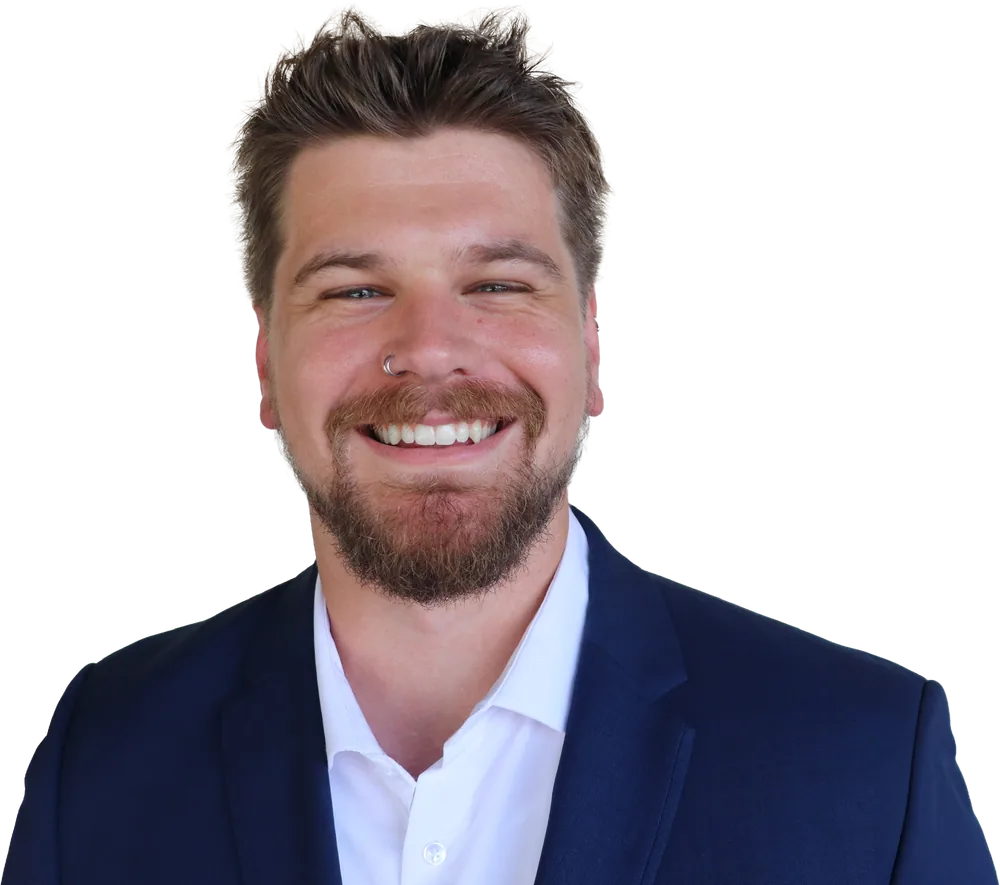
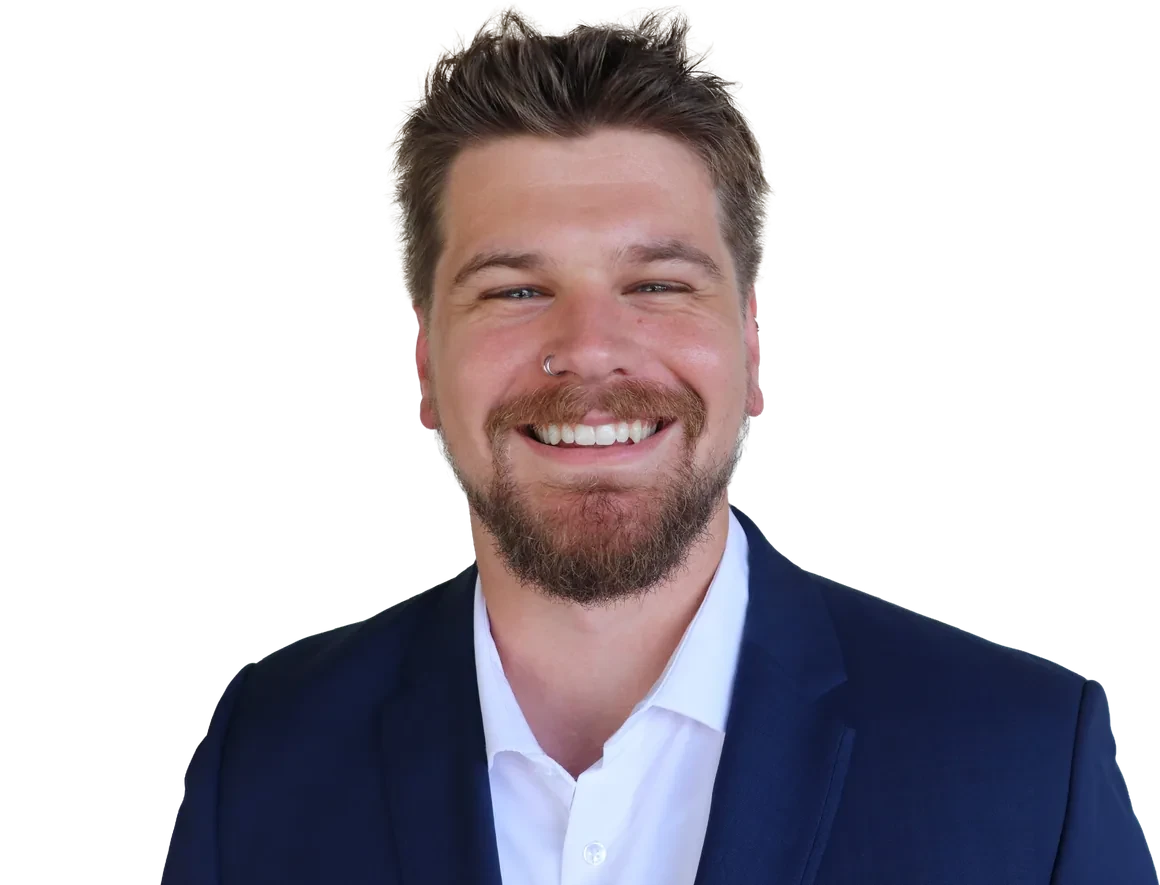
fix: update image cropping to have head centered

diff --git a/src/pages/Home.tsx b/src/pages/Home.tsx
@@ -69,13 +69,13 @@ export default function Home() {
 
           <img
             src="/headshot-hero-1000.webp"
-            srcSet="/headshot-hero-600.webp 600w, /headshot-hero-1000.webp 1000w"
-            sizes="(min-width: 768px) 30rem, 82vw"
-            width={1000}
+            srcSet="/headshot-hero-600.webp 696w, /headshot-hero-1000.webp 1160w"
+            sizes="(min-width: 768px) 34.8rem, 95vw"
+            width={1160}
             height={885}
             alt="Chase Roohms"
             fetchPriority="high"
-            className="hero-portrait relative z-10 -mt-[clamp(1rem,4.5vw,3.5rem)] w-[min(82vw,30rem)] select-none"
+            className="hero-portrait relative z-10 -mt-[clamp(0.75rem,3.5vw,2.75rem)] w-[min(95vw,34.8rem)] select-none"
           />
 
           <div className="relative z-20 mt-6 pb-12 text-center lg:absolute lg:bottom-[14%] lg:left-0 lg:mt-0 lg:pb-0 lg:text-left">

diff --git a/index.html b/index.html
@@ -12,7 +12,7 @@
     <link rel="preconnect" href="https://fonts.googleapis.com" />
     <link rel="preconnect" href="https://fonts.gstatic.com" crossorigin />
     <link rel="stylesheet" href="https://fonts.googleapis.com/css2?family=Inter:wght@400..700&family=JetBrains+Mono:wght@400;500&display=swap" />
-    <link rel="preload" as="image" href="/headshot-hero-1000.webp" imagesrcset="/headshot-hero-600.webp 600w, /headshot-hero-1000.webp 1000w" imagesizes="(min-width: 768px) 30rem, 82vw" fetchpriority="high" />
+    <link rel="preload" as="image" href="/headshot-hero-1000.webp" imagesrcset="/headshot-hero-600.webp 696w, /headshot-hero-1000.webp 1160w" imagesizes="(min-width: 768px) 34.8rem, 95vw" fetchpriority="high" />
     <!-- Title, description, canonical, and other meta tags are dynamically managed by React Helmet in each page component -->
     
     <!-- Google Analytics -->
